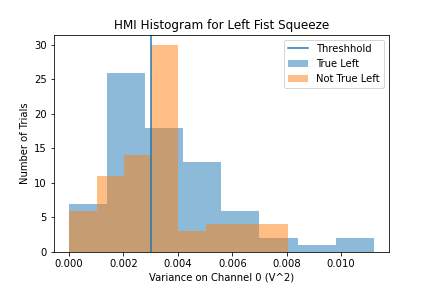
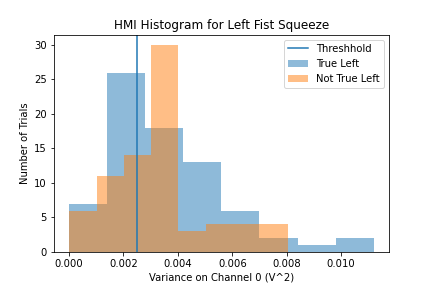
Part 4 Almost Done
Just need to plot and calculate confusion matrix

Changed region(s): [[0.3009, 0.125, 0.3611, 0.875]]

diff --git a/Lab_4_Main.py b/Lab_4_Main.py
@@ -6,6 +6,7 @@ Created by Artur Smiechowski 3/22/21
 # %% Imports
 import numpy as np
 from matplotlib import pyplot as plt
+import pyautogui as pyg
 
 # %% Part 1
 
@@ -42,7 +43,7 @@ plt.ylabel("Number of Trials")
 plt.title("HMI Histogram for Left Fist Squeeze")
 
 # Create a Criterion point to divide data classification
-criterion_left = 0.003 # Even after several new trials data improved but was not ultimately good (my arms really hurt from changing pad locations several times)
+criterion_left = 0.0025 # Even after several new trials data improved but was not ultimately good (my arms really hurt from changing pad locations several times)
 
 # Plot variances during expected true vs expected false epochs
 plt.hist(emg_epoch_var[is_true_left,0],bins=8, alpha=0.5, label="True Left") # Multidimensional indexing is seemingly wonky? [x][y] does not work intermittently
@@ -162,7 +163,86 @@ ITRs_right = 5*(np.log2(2)+accuracy_right*np.log2(accuracy_right)+(1-accuracy_ri
 
 # %% Part 4
 
-# Create the new choice arrays, intially will be copies of other choice arrays but will update
-is_predicted_4_left = is_predicted_left
-is_predicted_4_right = is_predicted_right
-is_predicted_4_click = is_predicted_left
+# Create the new prediction arrays, intially will be copies of other choice arrays but will update
+# This implies using the same criterions as before, could implement different ones by using same process as before with diff number
+is_predicted_4_left = np.copy(is_predicted_left) # TIL Python passes by reference, just = wont copy, just gives another name
+is_predicted_4_right = np.copy(is_predicted_right)
+is_predicted_4_click = np.copy(is_predicted_left)
+
+# Update the prediction arrays
+for epoch_n in range(len(is_predicted_4_left)): # I should standardize what values I reference for similar length applications, is there a best practice for this class?
+    # Piggyback off the loop to update 4_click
+    is_predicted_4_click[epoch_n] = False
+    
+    if is_predicted_4_left[epoch_n]: # Check if left is high
+        if is_predicted_4_right[epoch_n]: # If Right also high Click
+            # Update the truth arrays
+            is_predicted_4_click[epoch_n] = True
+            is_predicted_4_left[epoch_n] = False
+            is_predicted_4_right[epoch_n] = False
+             
+'''     
+# Note I started writing the code before finishing reading the section
+# I thought we where actually implementing an HMI
+# These sections of the if/else are not necessary as the array is already correct at epoch_n to get here
+# You only actually need the 2 checks and one update set to properly create 4 options
+# Nvm you could just use an and
+# Leaving this in comment to help clarify above
+# There is a time for refactoring but I have an exam to study for
+   
+   else: # Move left
+            pass      
+    else: # When left is low
+        if is_predicted_4_right[epoch_n]: # Move right
+            pass      
+        else: # Rest
+            pass
+'''
+
+# Create new truth arrays
+is_true_4_left = np.copy(is_true_left)
+is_true_4_right = np.copy(is_true_right)
+is_true_4_click = np.copy(is_true_left)
+
+# Update the truth arrays, similar to prediction
+for epoch_n in range(len(is_true_4_left)): # I should standardize what values I reference for similar length applications, is there a best practice for this class?
+    # Piggyback off the loop to update 4_click
+    is_true_4_click[epoch_n] = False
+    
+    if is_true_4_left[epoch_n]: # Check if left is high
+        if is_true_4_right[epoch_n]: # If Right also high Click
+            # Update the truth arrays
+            is_true_4_click[epoch_n] = True
+            is_true_4_left[epoch_n] = False
+            is_true_4_right[epoch_n] = False
+
+
+# Create an action list
+actions = ['left','right','click','rest']
+
+# Create a 2D confusion matrix (left,right,click,rest) in that order both dimensions
+# Rows are predicted, columns are actual
+confusion_matrix = np.zeros((4,4))
+
+# Update the array with the true vs predicted actions; Done column-wise sweep
+# True Left
+confusion_matrix[0,0] = np.sum((is_true_4_left==True)&(is_predicted_4_left==True)) # Don't think ==True is necessary of efficient since the arrays are already Bools(~ or not to negate), but will keep for clarity
+confusion_matrix[1,0] = np.sum((is_true_4_left==True)&(is_predicted_4_right==True))
+confusion_matrix[2,0] = np.sum((is_true_4_left==True)&(is_predicted_4_click==True))
+confusion_matrix[3,0] = np.sum((is_true_4_left==True)&((is_predicted_4_click==False)&(is_predicted_4_left==False)&(is_predicted_4_right==False))) # The long triple check since when 4_click is set it falisifes left/right, could get clash
+# True Right
+confusion_matrix[0,1] = np.sum((is_true_4_right==True)&(is_predicted_4_left==True))
+confusion_matrix[1,1] = np.sum((is_true_4_right==True)&(is_predicted_4_right==True))
+confusion_matrix[2,1] = np.sum((is_true_4_right==True)&(is_predicted_4_click==True))
+confusion_matrix[3,1] = np.sum((is_true_4_right==True)&((is_predicted_4_click==False)&(is_predicted_4_left==False)&(is_predicted_4_right==False)))
+# True Click
+confusion_matrix[0,2] = np.sum((is_true_4_click==True)&(is_predicted_4_left==True))
+confusion_matrix[1,2] = np.sum((is_true_4_click==True)&(is_predicted_4_right==True))
+confusion_matrix[2,2] = np.sum((is_true_4_click==True)&(is_predicted_4_click==True))
+confusion_matrix[3,2] = np.sum((is_true_4_click==True)&((is_predicted_4_click==False)&(is_predicted_4_left==False)&(is_predicted_4_right==False)))
+# True Rest
+confusion_matrix[0,3] = np.sum(((is_true_4_right==False)&(is_true_4_left==False)) &(is_predicted_4_left==True)) # There should have been a true_rest array
+confusion_matrix[1,3] = np.sum(((is_true_4_right==False)&(is_true_4_left==False)) &(is_predicted_4_right==True))
+confusion_matrix[2,3] = np.sum(((is_true_4_right==False)&(is_true_4_left==False)) &(is_predicted_4_click==True))
+confusion_matrix[3,3] = np.sum(((is_true_4_right==False)&(is_true_4_left==False)) &((is_predicted_4_click==False)&(is_predicted_4_left==False)&(is_predicted_4_right==False)))
+
